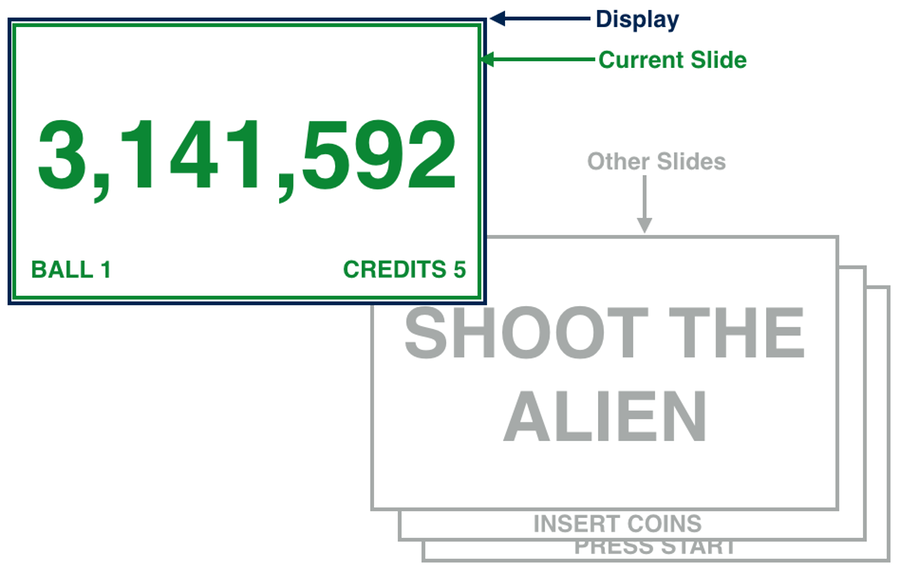
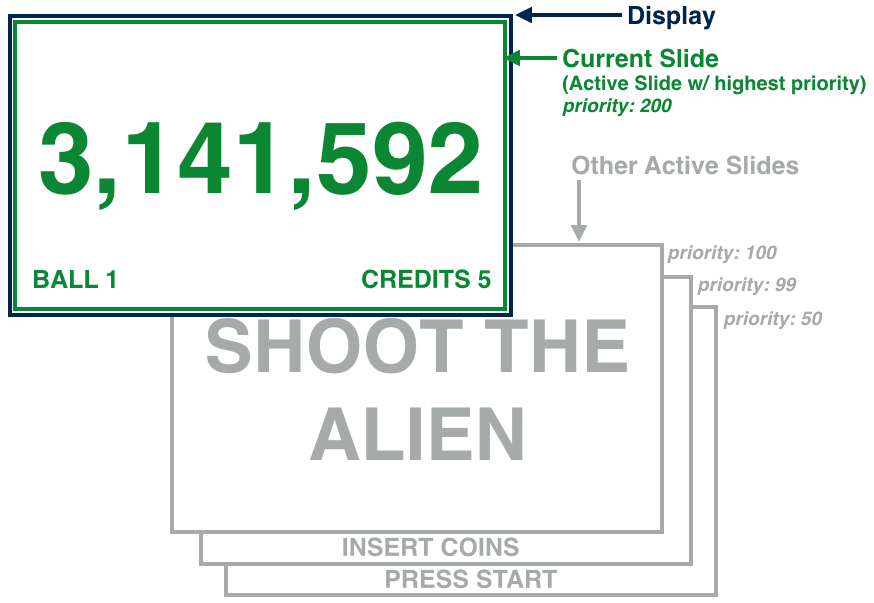
updated display explanation & added more images

Changed region(s): [[0.0, 0.0, 1.0, 1.0]]

diff --git a/displays/slides/index.rst b/displays/slides/index.rst
@@ -2,24 +2,63 @@ Slides
 ======
 
 Now that you know what a display is, the next concept you need to understand is
-"slides". In "slides" in MPF are just like slides in a PowerPoint presentation
+"slides". Slides in MPF are just like slides in a PowerPoint presentation
 or slides in an old-fashioned slide projector.
 
-You create multiple slides (each with its own content), and then you tell an MPF
-display which slide you want to show. Only one slide shows at a time, and you
-can set "transitions" which control what visual effect is used to transition
-from the current slide to the new slide. (Transitions are things like
+You create multiple slides (each with its own content), and then you tell MPF
+when to activate certain slides. Every slide has a priority, so if multiple
+slides are active at the same time, the one with the highest priority will be
+shown. You acn also set "transitions" which control what visual effect is used
+to transition from the current slide to the new slide. (Transitions are things like
 cross-fade, move in, push out, etc.)
 
 .. image:: /displays/images/how_slides_work.png
+
+.. rubric:: Slide Priorities
+
+Every slide in MPF has a priority, which is simply a numeric value. Bigger
+numbers equal higher priority.
+
+Since only one slide is shown at a time, whenever there is more than one
+active slide, whichever slide has the highest priority will be the
+one that's shown.
+
+For example, you might have a general score slide at priority 100 which shows
+the current player's score, the ball, the credits, and maybe the scores of the
+other players.
+
+If the player shakes the machine too hard and a tilt warning slide is shown,
+then that tilt warning slide might be activated at a priority of 10,000, meaning
+that it would be shown instead of the general score slide.
+
+Then after a few seconds, the tilt warning slide might be removed, and MPF will
+then show the next-highest active slide which would most likely be the general
+scoring slide that was showing before.
+
+The slide priority system is integrated into MPF's mode system, meaning that
+slides created by modes automatically inherit the priority of the mode that's
+showing them. Put another way, a slide from a higher priority mode would show
+in place of a slide from a lower priority mode (though every mode doesn't need
+to have slides). You can also tweak the priorities of slides (higher or lower)
+to make sure the slide you want to show is the one that's showing at any given
+time. We'll dig into that later in the documentation.
+
+.. rubric:: Slides with Multiple Displays
+
+When MPF is used with :doc:`multiple displays </displays/display/index>`, each
+display maintains its own stack of active slides. The priorities of the slides
+in the stack and the priority of the current slide on one display has nothing
+to do with the active and current slides of another display.
+
+.. image:: /displays/images/slides_with_multiple_displays.png
 
 
 
 .. toctree::
 
-   creating_slides
+   Creating Slides <creating_slides>
+   Showing Slides <showing_slides>
+   Slide Transitions <transitions>
    multiplayer_display
    picture_in_picture
-   showing_slides
-   transitions
    split_screen
